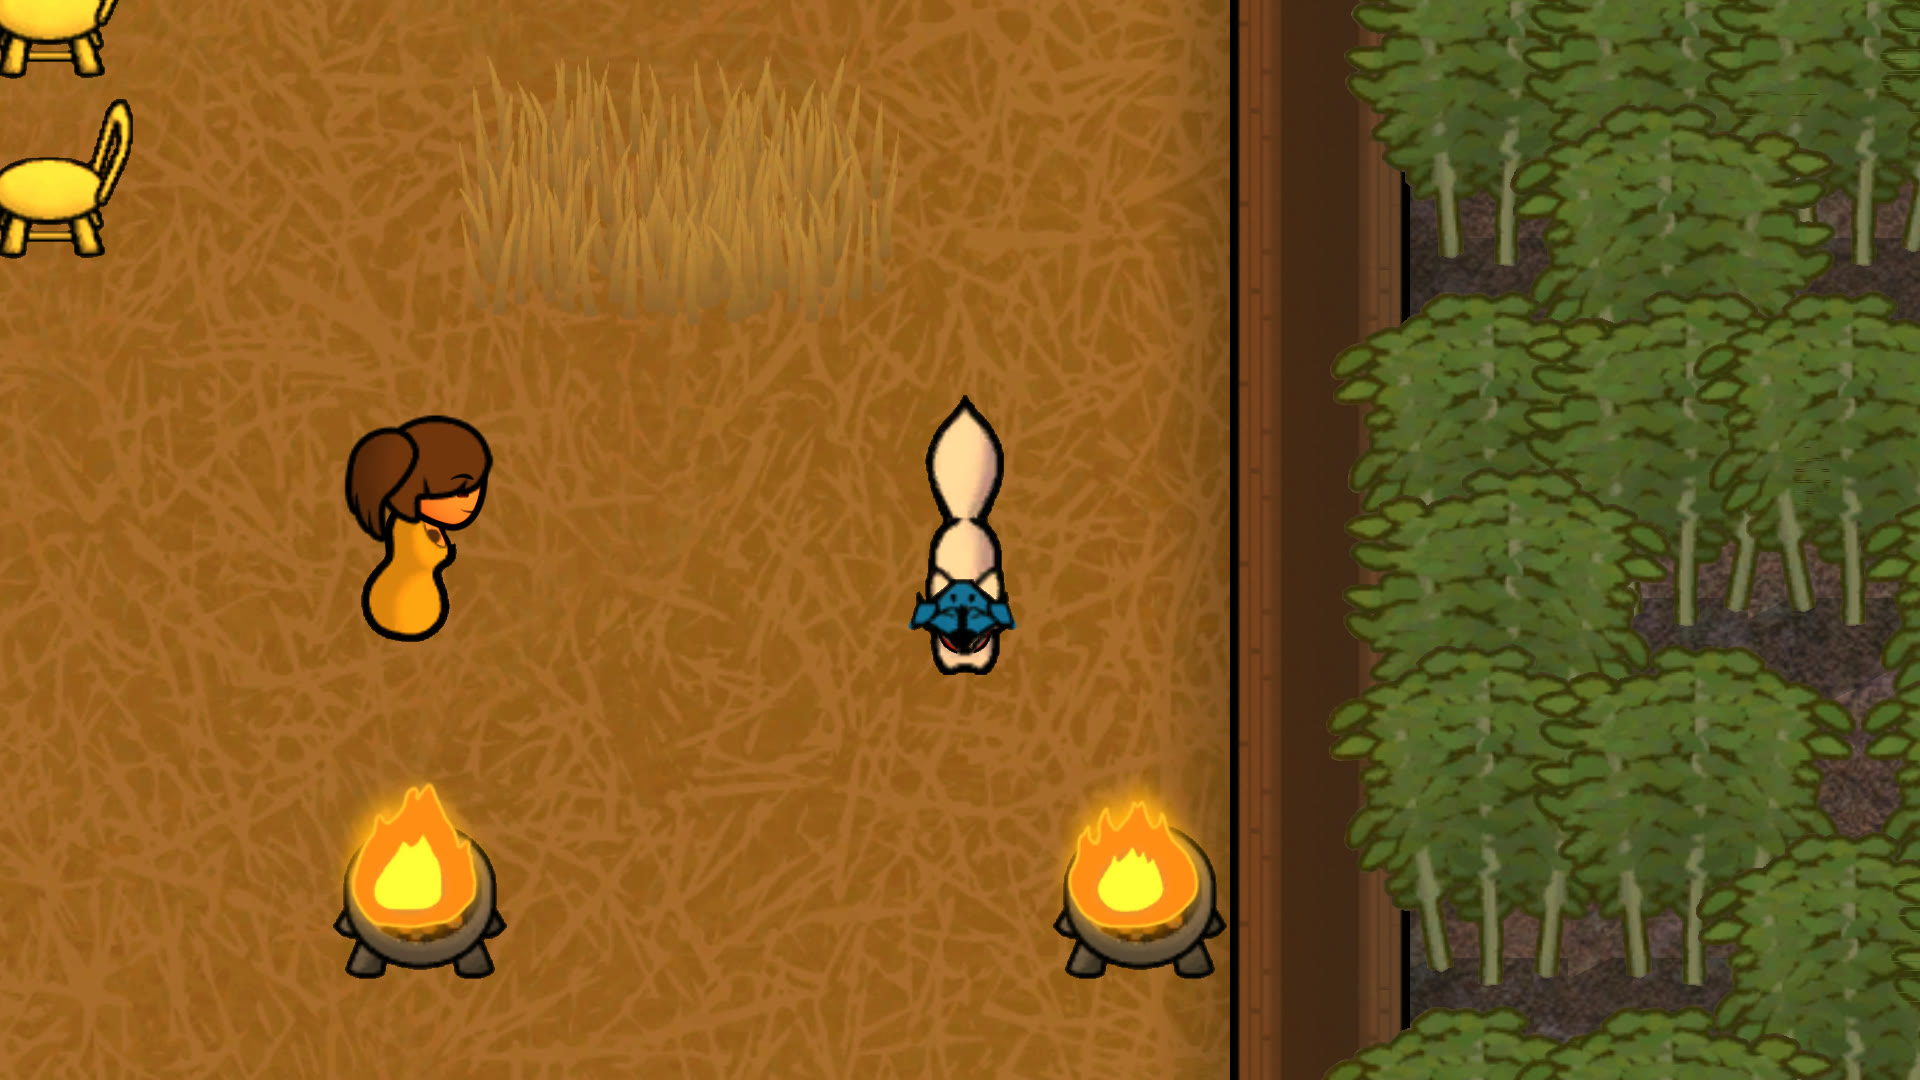
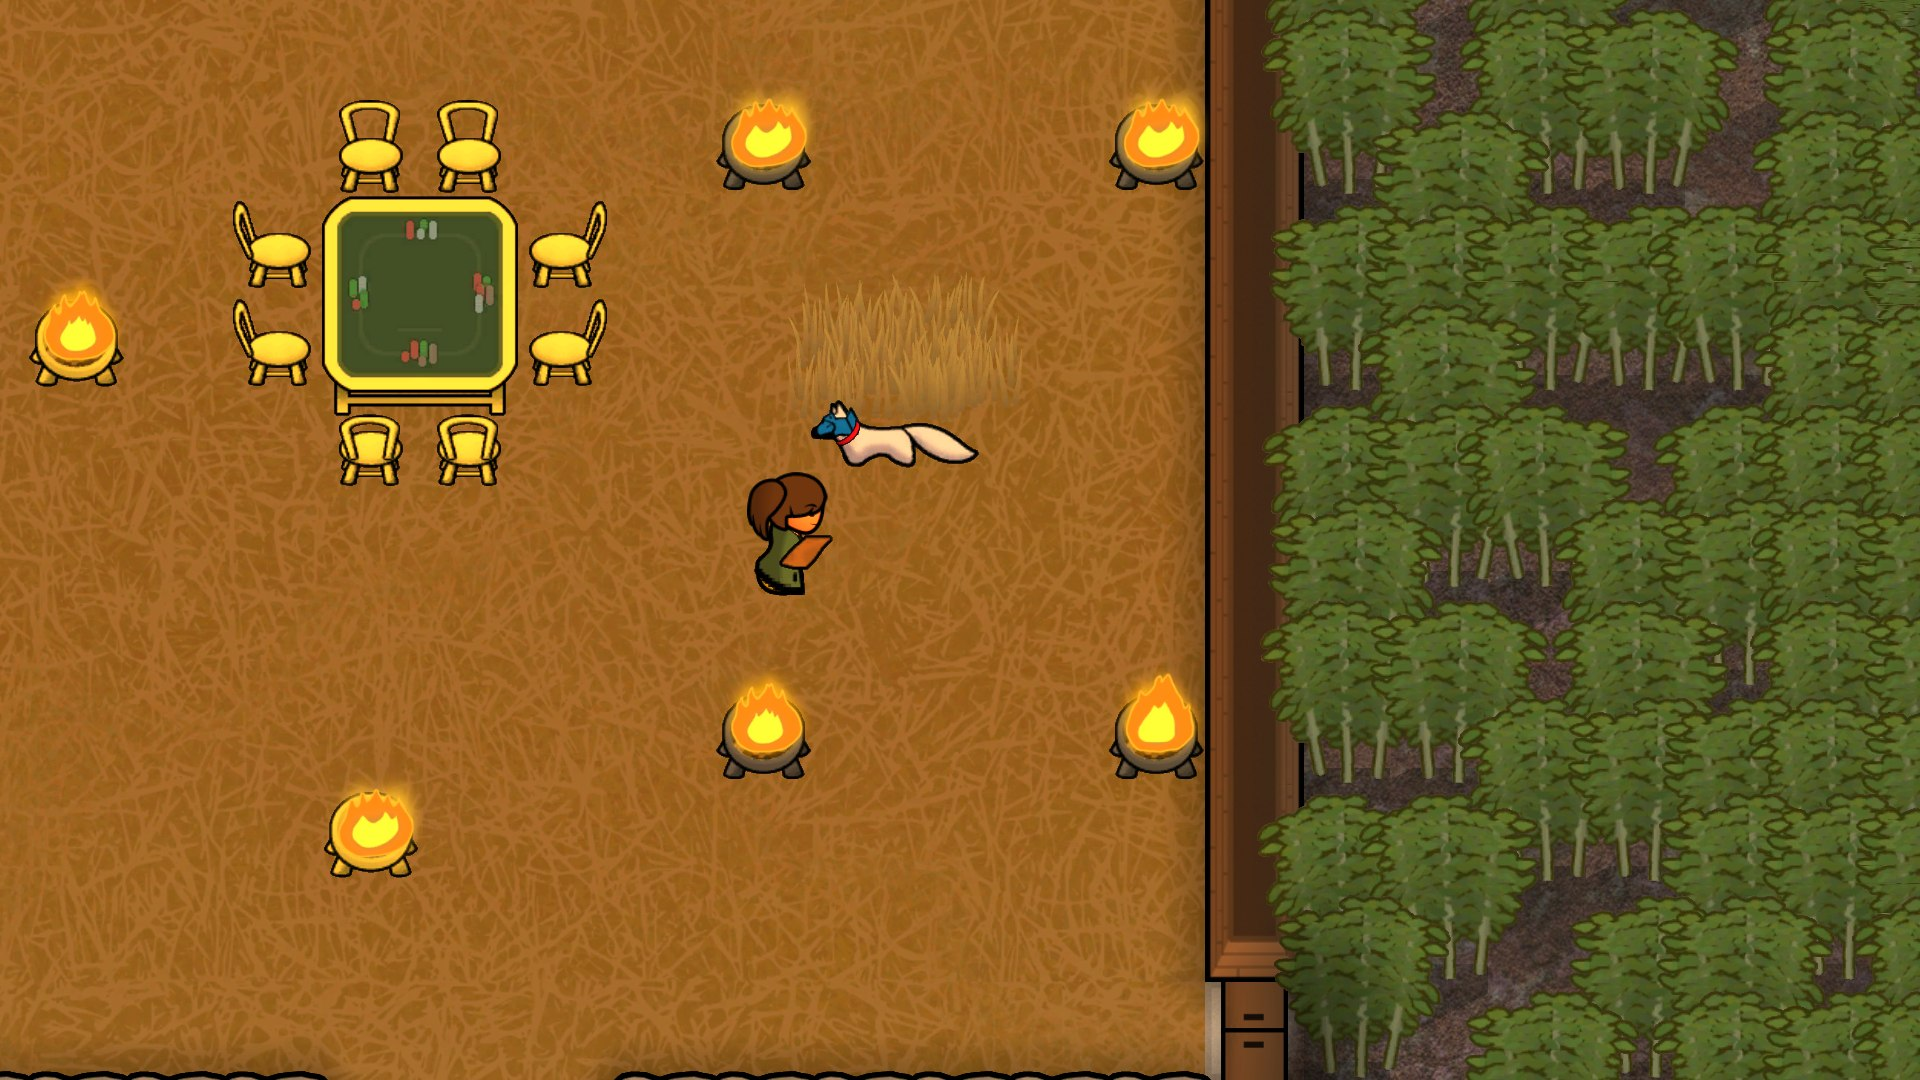
Gallery: ef32 digested, candidates 1, 2, 3, 6 as JPEG, stale PNGs removed

diff --git a/STATUS.md b/STATUS.md
@@ -161,6 +161,8 @@ No cron, ScheduleWakeup, Monitor or watcher on Pickle ticket any more (rule 2026
 
 Ticket 6a80 (7a29f86) produced no report: launcher read second -Then filter as language name. Resubmitted as 696a with -Then given as PowerShell array. Result: seq1 (option written), seq2 (read after restart, five universal defs absent), seq3 (reset to defaults) all passed. `settings_audit` now `complete`. Next: shootGallery once owner confirms; regenerate `.github/` at CI/CD template 7a8f3a601751 before publish.
 2026-10-24: b7f7 (v6b) scenes 1 and 4 passed; 5 failed (the small power helmet has no husky tag, Apparel_AnimalPowerArmor.xml: husky helmet dropped from scenes 5 and 6), 2 failed (job Train refused, RopeToPen: replaced by a haul of Leather_Camel), 3 failed on a save-load timeout (rerun as is); c629 (v6a) no report (stall guard), folder deleted. Plan re-rated 3.8 (rate-gallery): composition and 268 px lines written for 1, 3 to 6 in bb15150. Ticket ef32 filed on bb15150 (scenes 2, 3, 5, 6, Inbox/gallery-v6c, wsl-deps.sanctuary.map). 2026-10-25 verdicts on b7f7: scene 1 fox kept as candidate (instant and outfit hold, fox small but wide shot, helmet and red collar readable, Nelim holds the collar), not yet in Art/Gallery (2.8 MB PNG, recompress under 2 MB at reindex); scene 4 goat refused (Nelim absent from frame, goat mail unreadable, bare brown ground, no story): scene 4 not in ef32, to recompose and refile with it. Scene 4 reworked the same day (write-shotlist 4): goat walks West ((194,152) to (191,152)), Nelim follows with Steel, fixed frame rectangle (190,150)-(196,153), daylilies (192,150) (195,150) foreground, tall grass (191,153) (193,153) and the x 190 flower border behind; b, f now ok, j weak (goat about a fifth of the width): estimate 3.5 to 4.5, series mean 4.4 to 4.5. Not filed: new ticket after ef32 digest. Scene 5 Nelim now smiles (MouthSmirkSmile, owner 2026-10-25: smile on default scenes; animal outfits and mouths are the session's call, wardrobe suggestions not validated). Pending answer: request to NPT via the TM (NPT archived) for a step holding an animal in place and facing during ticks (fox profile and goat drift in b7f7), plus whether walk to, follows, lies down were played; if NPT declines, tell the owner to arbitrate. Rating 2026-10-25: series mean 4.6 (1 4.5, 2 5, 3 4.5, 4 4.5, 5 4.5, 6 4.5; weak: j on 1, 4, 5, 6; f on 3). NSB canon (CATALOGUE-ANIMAUX): Yuki and Shogun wear only Apparel_leatherdogcollar, so the armoured husky of 5 and 6 stays a non-Yuki husky (GalleryHusky, ParadeHusky). Folders gallery-v6b and gallery-v6b-1 stay in Inbox until ef32 is digested. Open: ef32 result (scenes 2, 3, 5, 6), scene 4 recomposition; stale Art/Gallery/1-fox.png, 2-horse.png, 3-husky.png to delete at reindex.
+2026-10-29: ef32 green 4 of 4 (scenes 2, 3, 5, 6; animal steps walk to, lies down, follows played, no proof beyond the captures). Verdicts: 2 horse kept (purple barding, saddle, Nelim holds the item; horse about 12 % of the frame, no statues visible, dim light: j weak, b weak); 3 bear kept (diaper, Z, Nelim beside: story clear); 5 husky refused (small, armour unreadable, Nelim back to camera, bare ground: recompose tighter, zoom in); 6 parade kept (cow, fox, husky, horse, Nelim with silver; animals scattered, wide). Art/Gallery holds 1, 2, 3, 6 as *-candidate-*.jpg (under 2 MB), 7 settings; stale PNGs deleted; Inbox emptied. Open: scene 4 goat refile, scene 5 husky recompose and refile (new ticket, scenes 4 and 5 together, with the DLL of NPT for stands at facing), polish per shot, subtitles, reindex.
+
 ## Shotlist v6, 2026-10-23 (skill write-shotlist, GALLERY.md a to k as of 2026-10-23, feature `12-gallery`, pass `wsl-deps.sanctuary.map` with VEF)
 
 Why reworked: GALLERY.md of 2026-10-23 (d outfit continuity in a story day; e game paused mid-play, instant and how the gesture is obtained; k series: opening, closing, shot variety; h and i retired). The 2026-10-18 plan (new outfit, hairstyle and hat per scene, Nelim standing still) no longer fits. Ticket e578 (old plan, scenes 2 to 5) to cancel. Opus director pass done (one call); remarks below.
